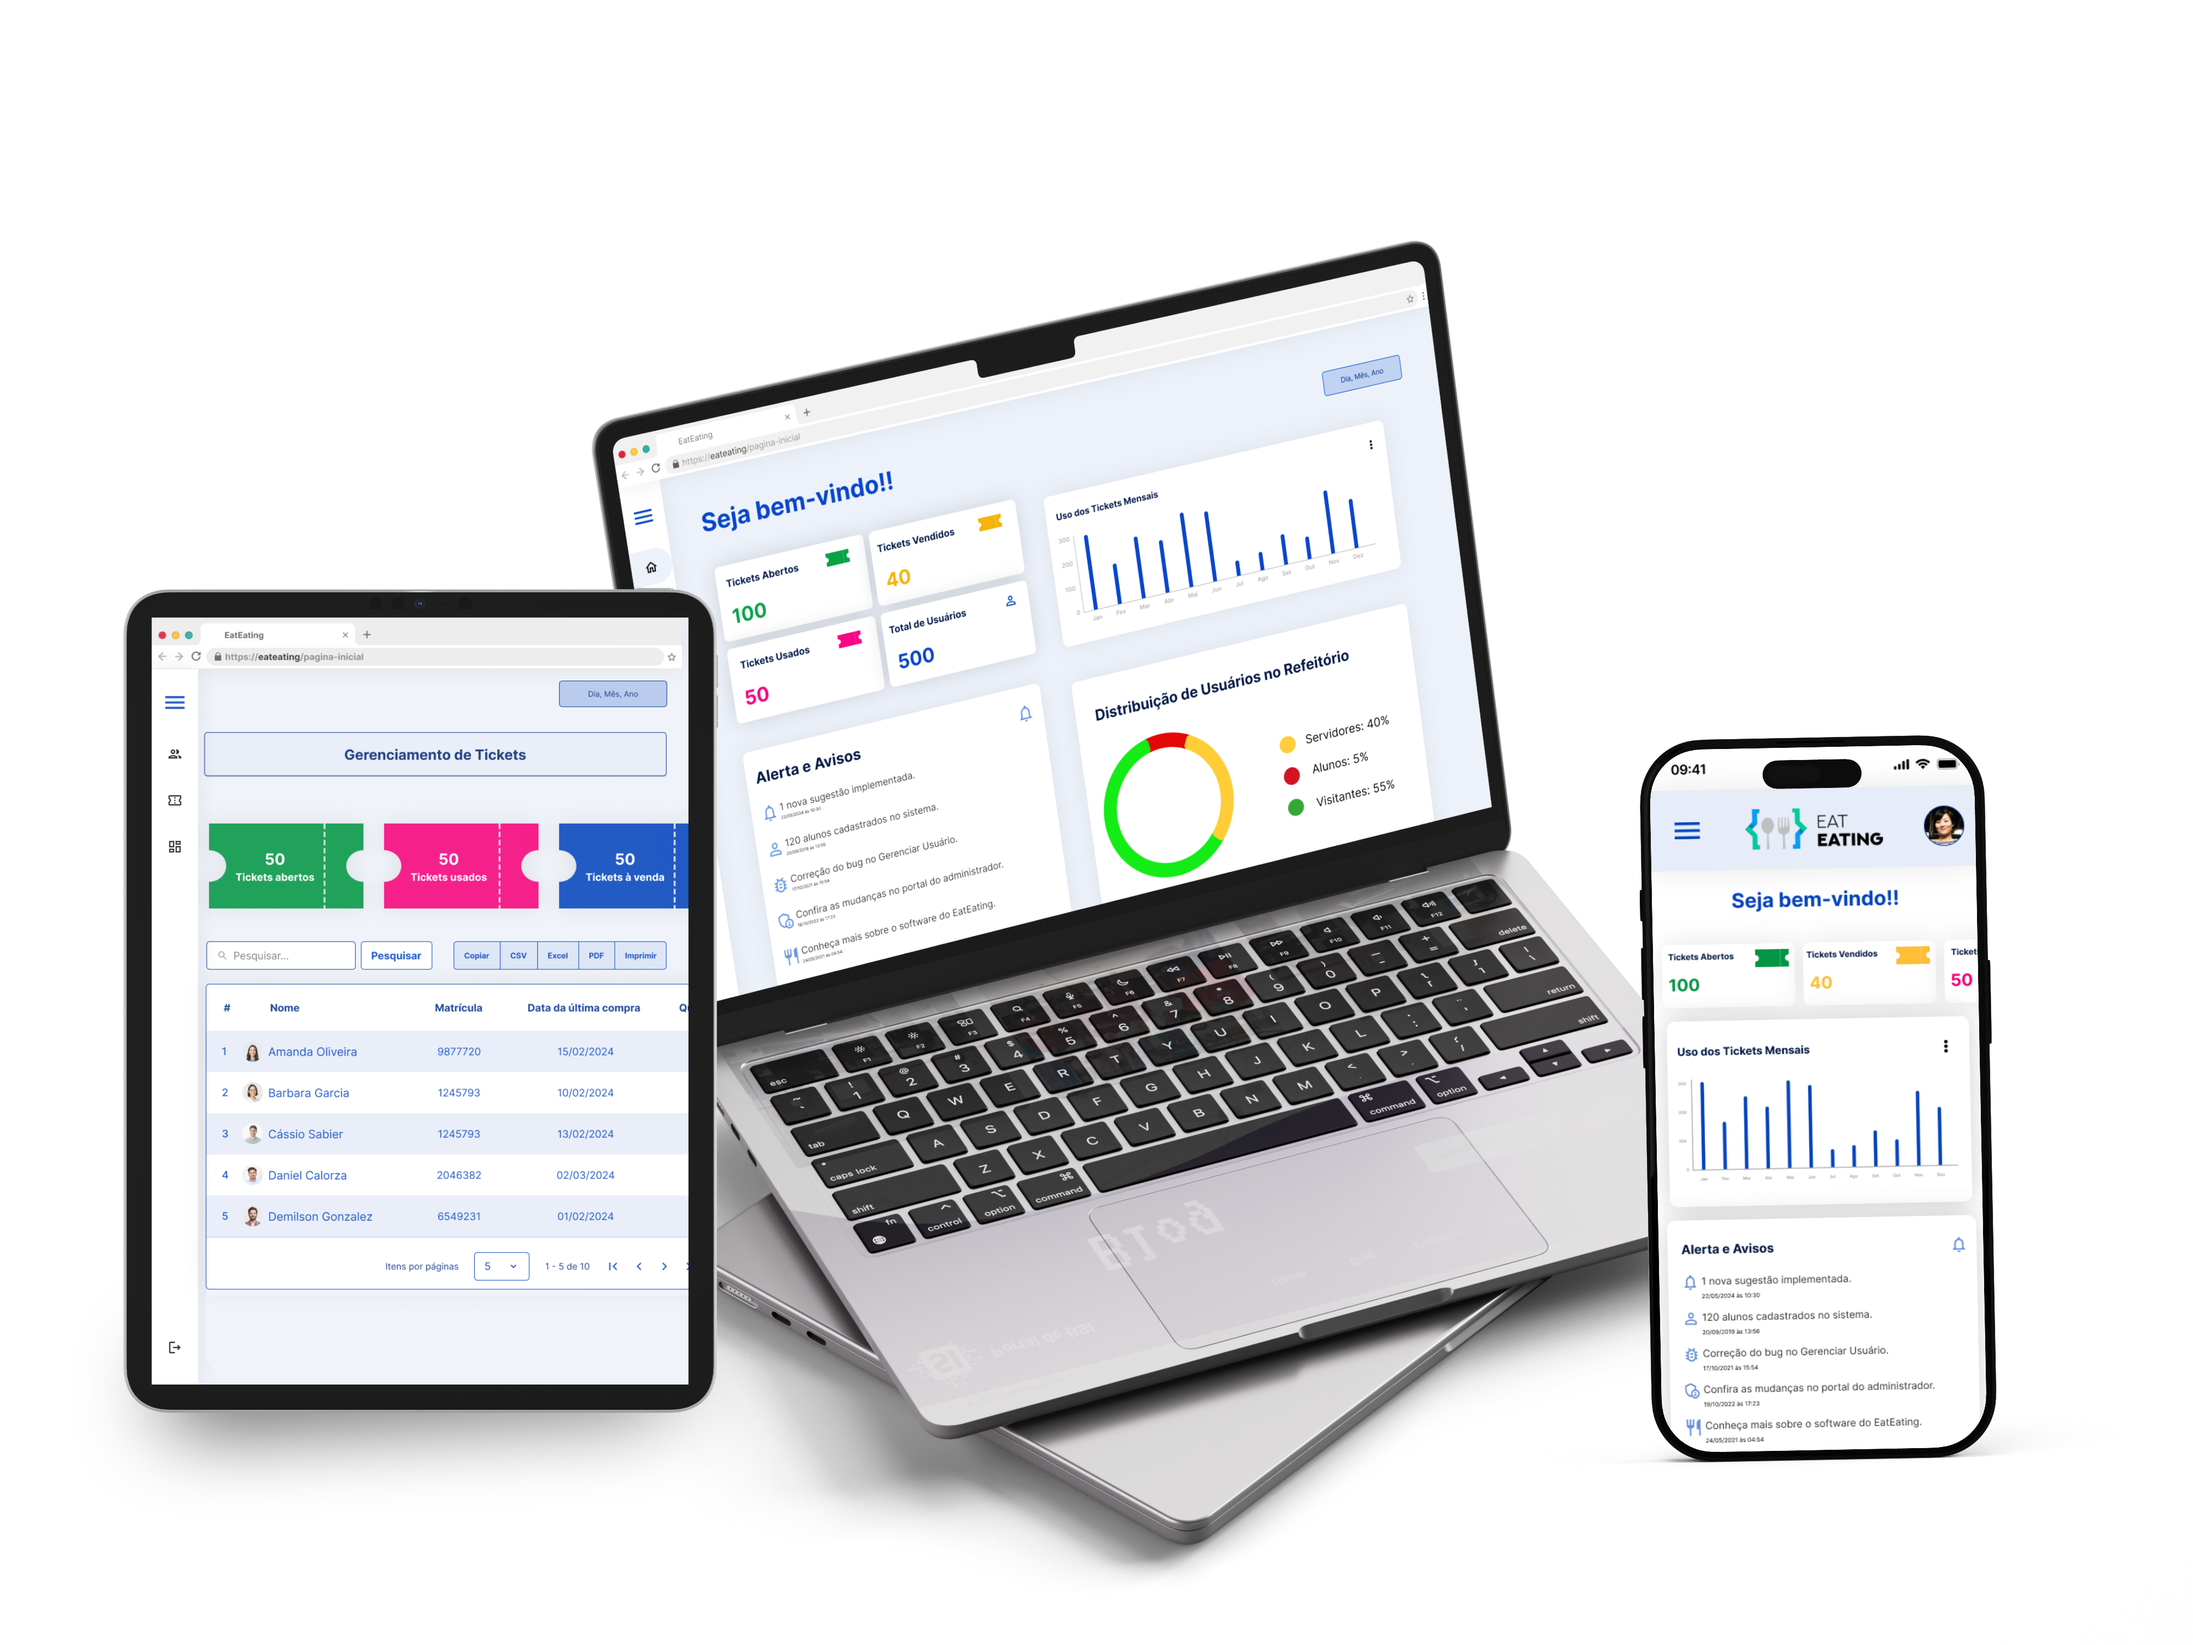
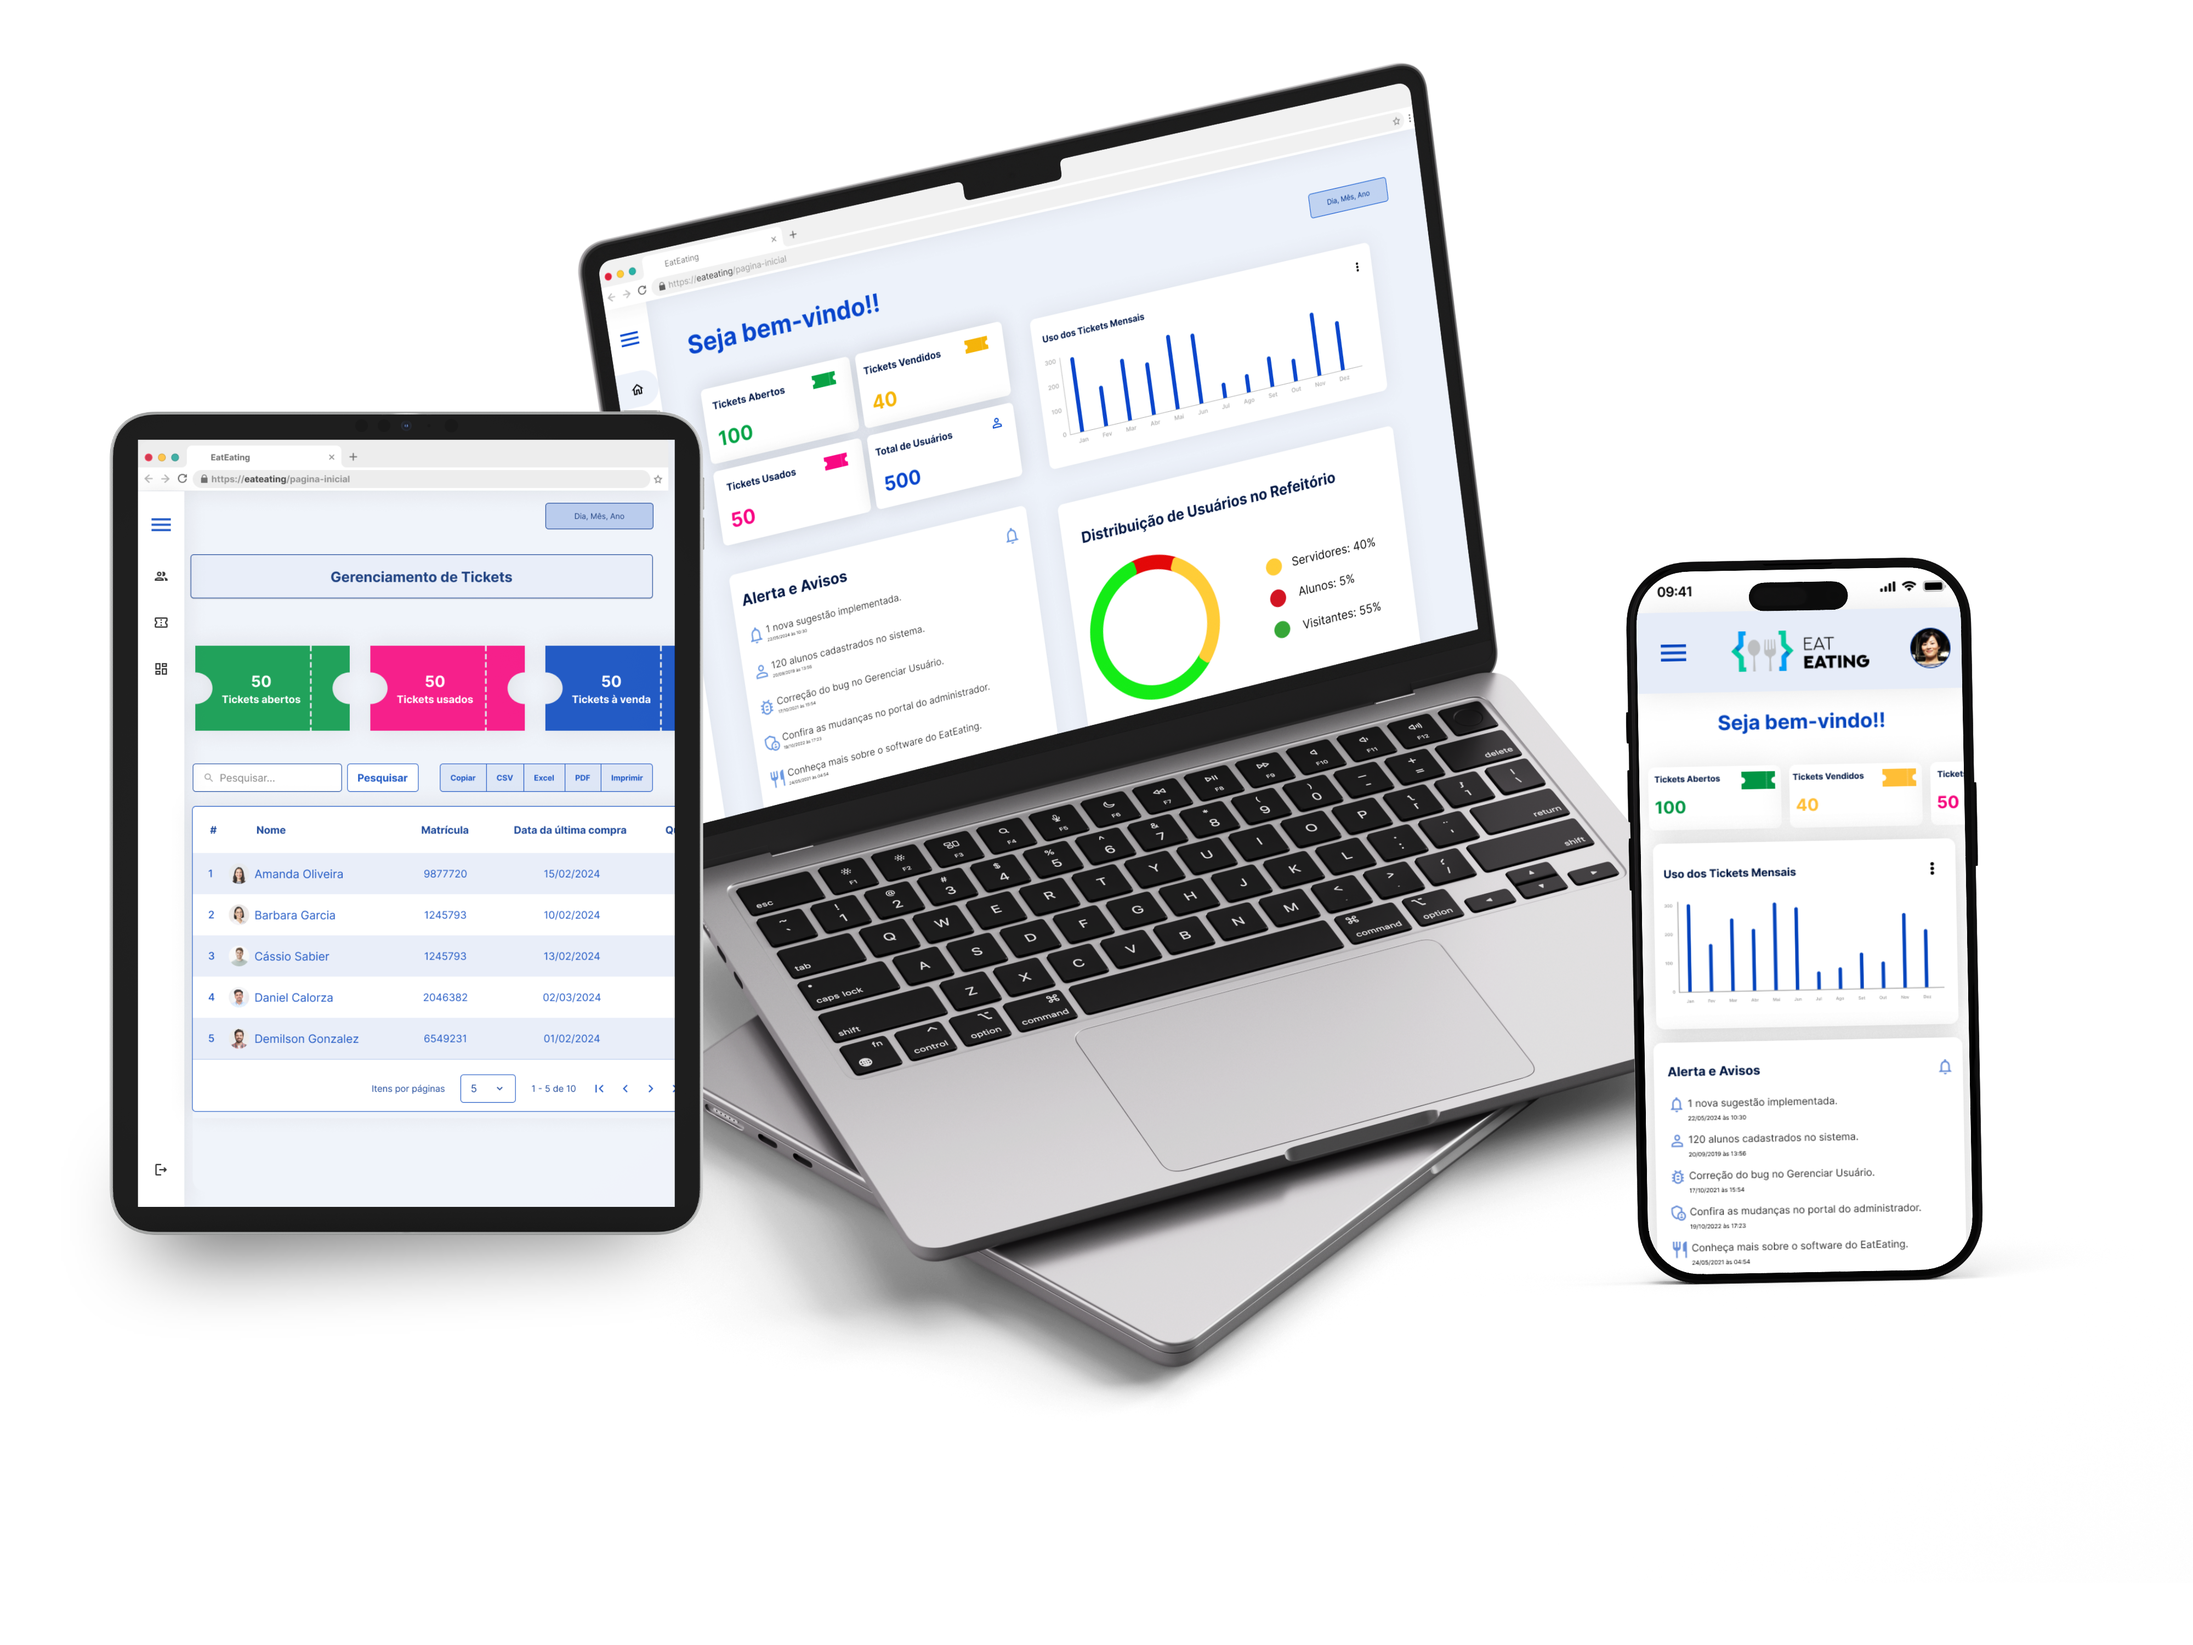
style: Altera imagens da sessao ui-ux

Changed region(s): [[0.0312, 0.031, 0.9375, 0.961]]

diff --git a/style.css b/style.css
@@ -380,7 +380,6 @@ section.ui-ux {
     display: grid;
     grid-template-columns: repeat(2, 1fr);
     gap: 30px;
-    height: 600px;
 }
 
 .card-projeto {
@@ -392,16 +391,18 @@ section.ui-ux {
     transition: all 0.4s cubic-bezier(0.4, 0.2, 1);
     background: rgba(251, 0, 0, 0.02);
     border: 1px solid rgba(255, 255, 255, 0.05);
+    height: 500px;
 }
 
 .card-pequeno {
-    height: 600px;
+    height: 500px;
 }
 
 .card-grande {
-    height: 600px;
+    height: 810px;
     width: 100%;
 }
+
 
 .imagem-container {
     position: relative;
@@ -415,8 +416,14 @@ section.ui-ux {
     width: 100%;
     height: 100%;
     object-fit: cover;
+    object-position: center top;
     transition: all 0.6s cubic-bezier(0.4, 0.2, 1);
     filter: brightness(0.95);
+    transform-origin: center center;
+}
+
+.card-grande .imagem-projeto {
+    object-position: center 70%;
 }
 
 .overlay {
@@ -437,7 +444,7 @@ section.ui-ux {
     display: flex;
     align-items: flex-end;
     padding: 40px;
-    border-radius: 20px;
+    border-radius: 10px;
 }
 
 .conteudo-overlay {
@@ -460,7 +467,7 @@ section.ui-ux {
 }
 
 .card-projeto:hover .imagem-projeto {
-    transform: scale(1.05);
+    transform: scale(1.02);
     filter: brightness(1.05);
 }
 
@@ -472,7 +479,7 @@ section.ui-ux {
     width: 100%;
     height: 100%;
     background: linear-gradient(to top,
-        rgba(0, 0, 0, 0.6) 0%,
+        rgba(0, 0, 0, 0.7) 0%,
         rgba(0, 0, 0, 0.5) 30%,
         rgba(0, 0, 0, 0) 100%
     );

diff --git a/index.html b/index.html
@@ -120,7 +120,7 @@
                             <img src="/images/capaLanding.png" alt="Landing Page Labsif" class="imagem-projeto">
                             <div class="overlay">
                                 <div class="conteudo-overlay">
-                                    <h3 class="titulo-projeto">Landing page do site da LabsIF</h3>
+                                    <h3 class="titulo-projeto">Landing page da LabsIf</h3>
                                 </div>
                             </div>
                         </div>
